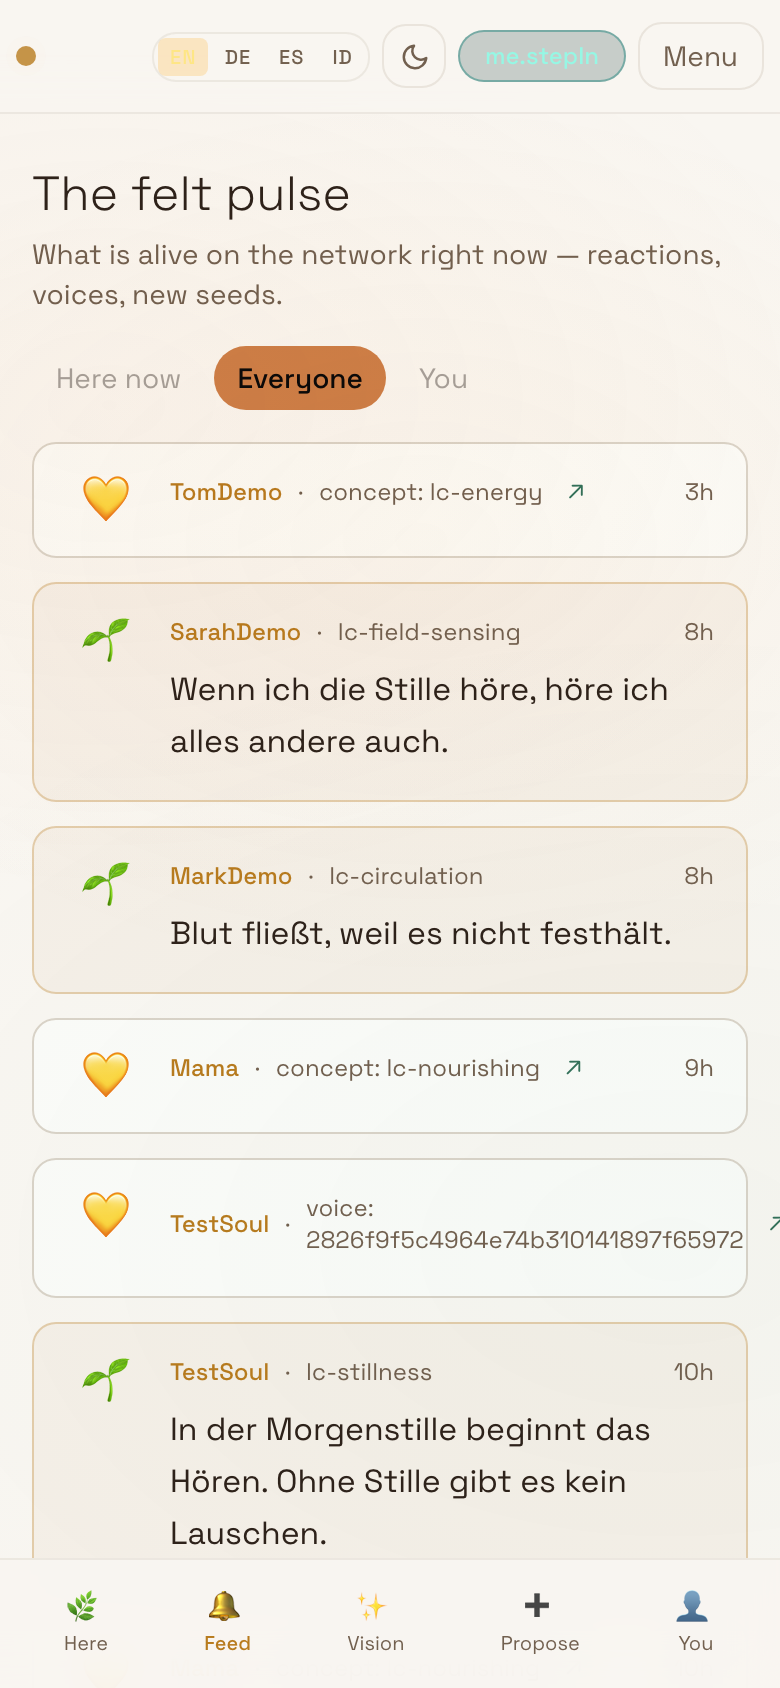
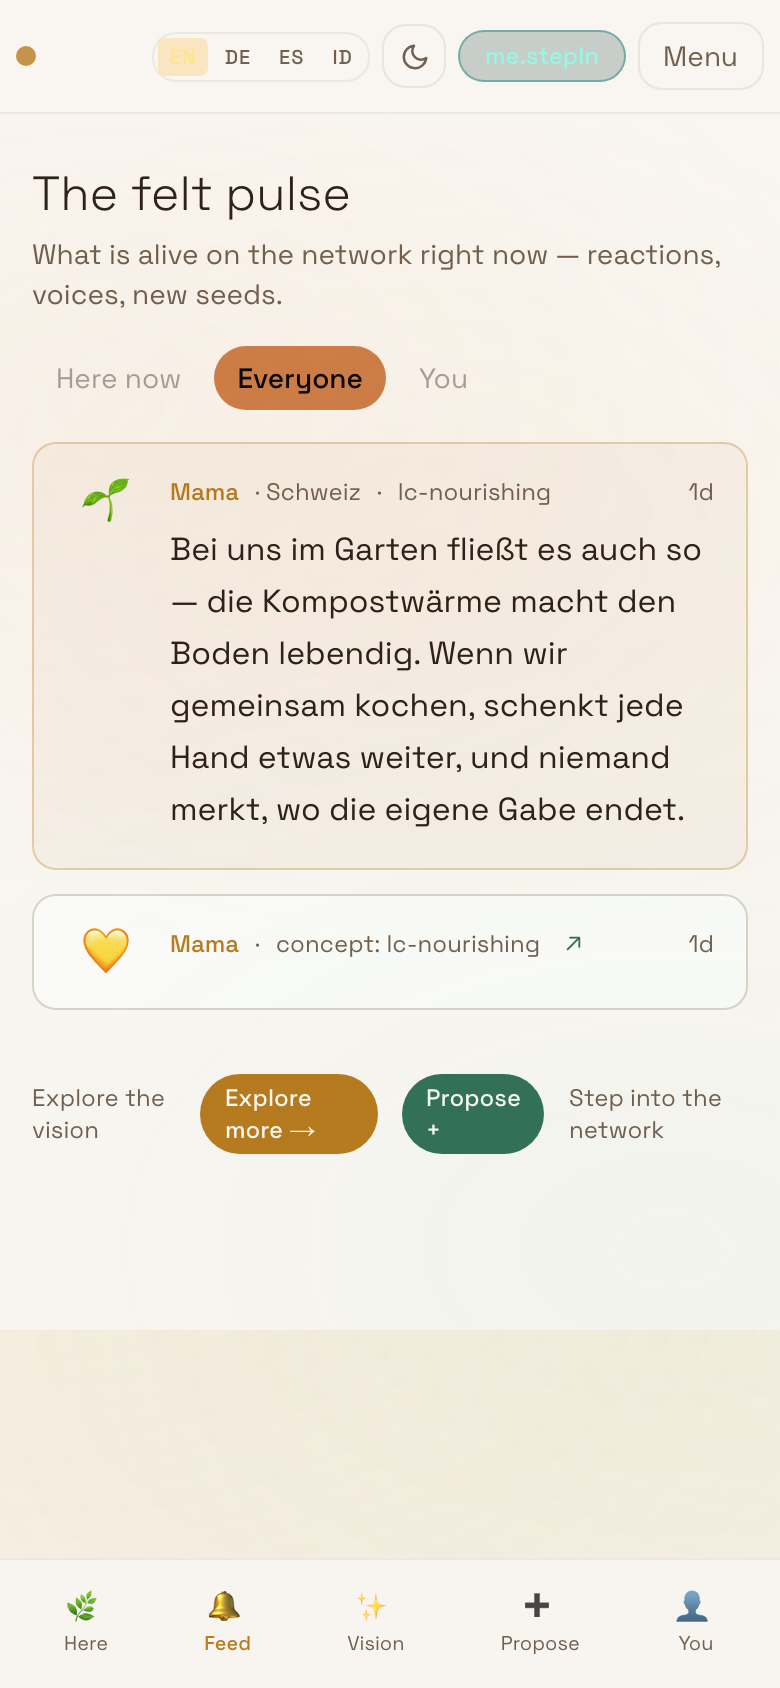
chore(captures): refresh first-impression screenshots after cycles AB-AD
Refreshed mobile captures of /, /vision/lc-pulse, /feed, /here on prod
showing the cumulative result of:

  · cycle AB — voice doorway + title contrast on concept pages
  · cycle AC — home page leads with Featured Concept card
  · cycle AD — demo data cleaned from prod DB

What changed in production data this cycle:

  · DELETED 3 demo voices: SarahDemo, MarkDemo, TestSoul (all 3 had
    fake names attached to otherwise-poetic German bodies — the body
    quality wasn't the problem; the demo-name attribution was).
  · DELETED 1 TomDemo heart on lc-energy.
  · DELETED 1 TestSoul heart on the Mama-voice — this was also the
    source of the voice:<hash> concept-slug rendering bug surfaced
    after the contrast fix; the bug fixes itself once the data is
    clean.
  · CONSOLIDATED Mama hearts on lc-nourishing from 9 down to 1
    (oldest kept) — the duplicates were all from cycle development,
    not real multi-tap activity. One heart is the honest gesture.

Final live state: 1 voice (Mama, Schweiz, lc-nourishing, German body
about garden Kompostwärme) + 1 heart (Mama, lc-nourishing). Sparse
but honest. A friend reading /feed sees one real contribution from
one named person, instead of five fake-looking demo names.

Contributor records left in place — many are agent-process identities
(claude-opus-mac-node, codex-agent, cursor-agent, milestone-agent,
coherence-runner) that are FK-referenced by ledger / contribution
[…]

diff --git a/web/scripts/recapture-home.ts b/web/scripts/recapture-home.ts
@@ -1,0 +1,41 @@
+import { chromium } from "playwright";
+import * as path from "path";
+import { fileURLToPath } from "url";
+
+const __filename = fileURLToPath(import.meta.url);
+const __dirname = path.dirname(__filename);
+const OUT_DIR = path.resolve(__dirname, "..", "public", "stories", "first-impressions");
+
+(async () => {
+  const browser = await chromium.launch({ headless: true });
+  const context = await browser.newContext({
+    viewport: { width: 390, height: 844 },
+    deviceScaleFactor: 2,
+    userAgent:
+      "Mozilla/5.0 (iPhone; CPU iPhone OS 17_0 like Mac OS X) AppleWebKit/605.1.15 (KHTML, like Gecko) Version/17.0 Mobile/15E148 Safari/604.1",
+    locale: "en-US",
+  });
+  const shots: Array<[string, number]> = [
+    ["01-home-top-after.png", 0],
+    ["02-home-scroll-after.png", 600],
+  ];
+  for (const [name, scrollY] of shots) {
+    const page = await context.newPage();
+    await page.goto("https://coherencycoin.com/", {
+      waitUntil: "domcontentloaded",
+      timeout: 60000,
+    });
+    try {
+      await page.waitForLoadState("networkidle", { timeout: 20000 });
+    } catch {
+      /* settle below */
+    }
+    await page.waitForTimeout(4500);
+    if (scrollY) await page.evaluate((y) => window.scrollTo(0, y), scrollY);
+    await page.waitForTimeout(800);
+    await page.screenshot({ path: path.join(OUT_DIR, name), fullPage: false });
+    console.log("captured", name);
+    await page.close();
+  }
+  await browser.close();
+})();

diff --git a/web/scripts/recapture-concept.ts b/web/scripts/recapture-concept.ts
@@ -1,0 +1,36 @@
+import { chromium } from "playwright";
+import * as path from "path";
+import { fileURLToPath } from "url";
+
+const __filename = fileURLToPath(import.meta.url);
+const __dirname = path.dirname(__filename);
+const OUT_DIR = path.resolve(__dirname, "..", "public", "stories", "first-impressions");
+
+(async () => {
+  const browser = await chromium.launch({ headless: true });
+  const context = await browser.newContext({
+    viewport: { width: 390, height: 844 },
+    deviceScaleFactor: 2,
+    userAgent:
+      "Mozilla/5.0 (iPhone; CPU iPhone OS 17_0 like Mac OS X) AppleWebKit/605.1.15 (KHTML, like Gecko) Version/17.0 Mobile/15E148 Safari/604.1",
+    locale: "en-US",
+  });
+  const page = await context.newPage();
+  await page.goto("https://coherencycoin.com/vision/lc-pulse", {
+    waitUntil: "domcontentloaded",
+    timeout: 60000,
+  });
+  try {
+    await page.waitForLoadState("networkidle", { timeout: 20000 });
+  } catch {
+    /* settle time below */
+  }
+  await page.waitForTimeout(4500);
+  await page.screenshot({
+    path: path.join(OUT_DIR, "04-meet-concept-after.png"),
+    fullPage: false,
+  });
+  console.log("captured 04-meet-concept-after.png");
+  await page.close();
+  await browser.close();
+})();
